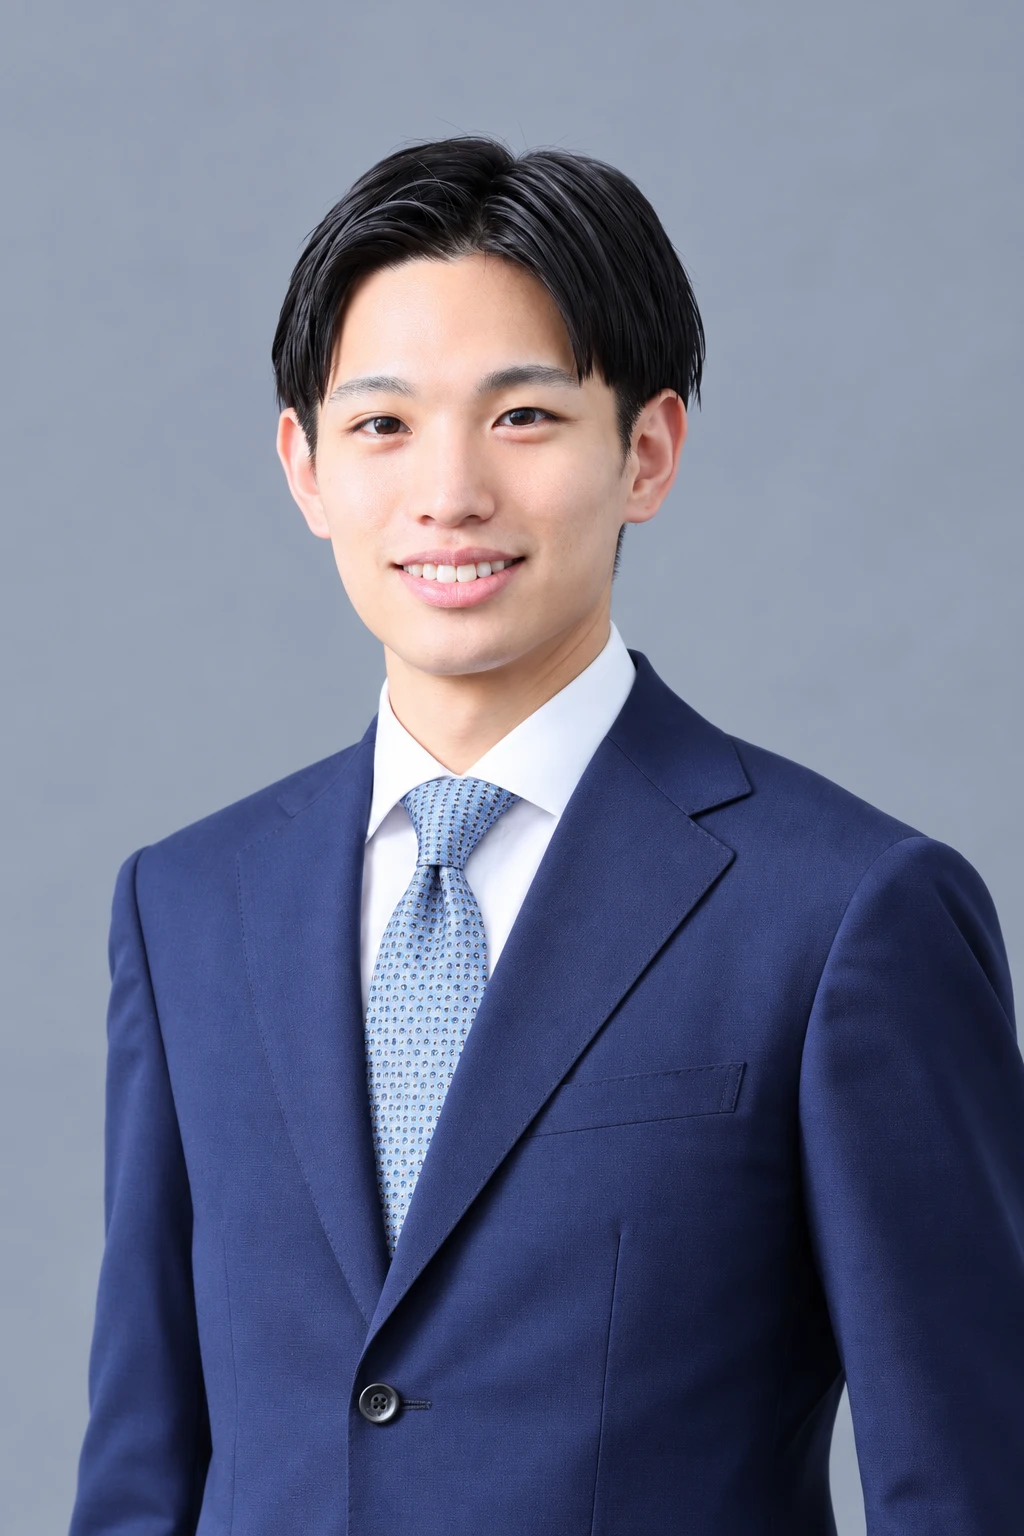
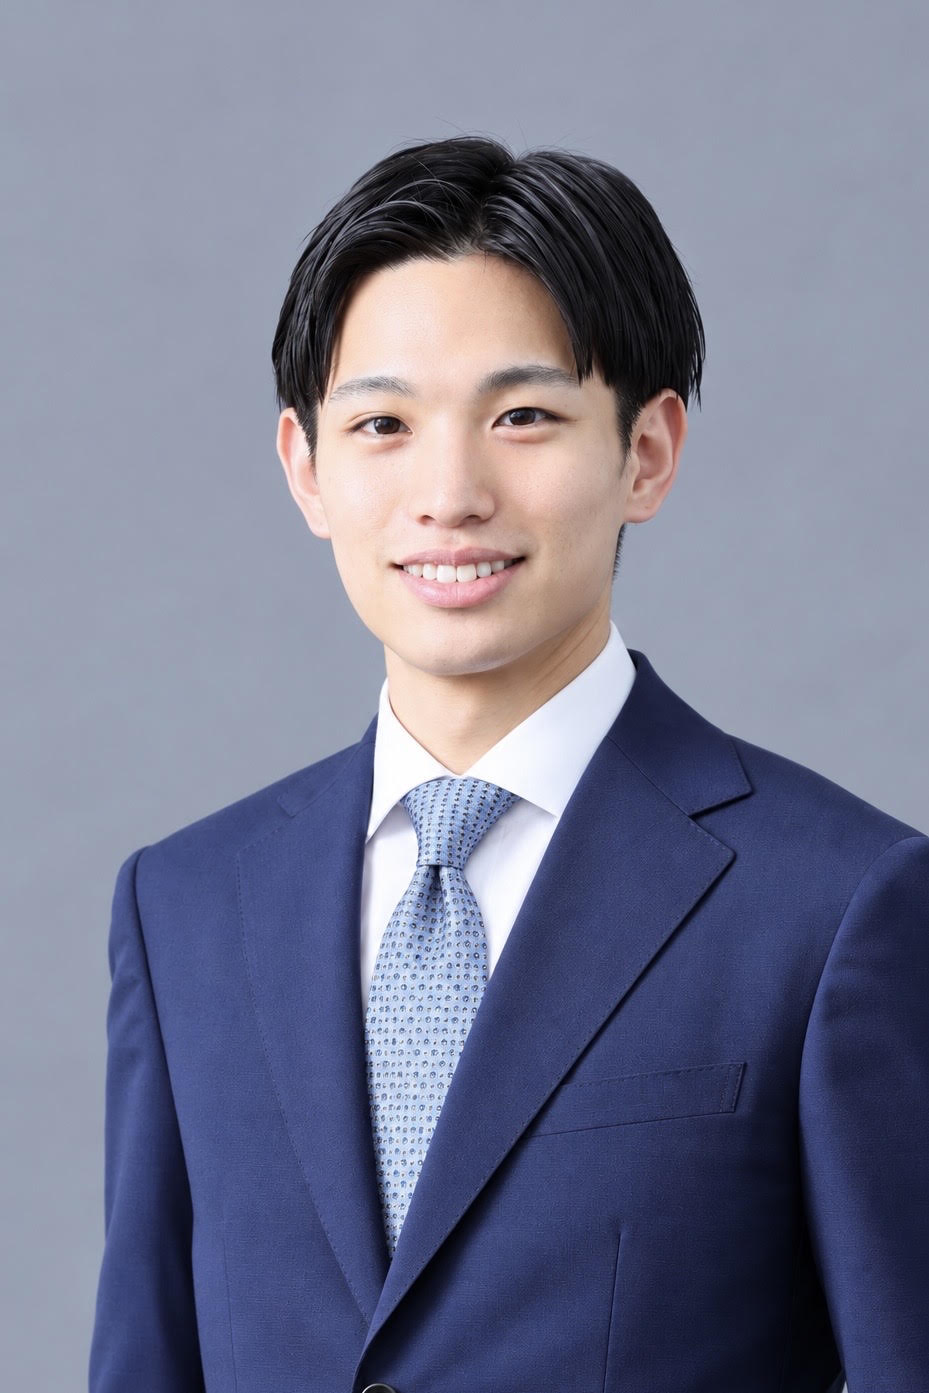
お知らせセクション修正：問題の画像・活動アーカイブ削除、ニュースカード2列グリッドに変更／西山プロフィール写真を新しい写真に更新

diff --git a/index.html b/index.html
@@ -944,21 +944,8 @@ details[open] .t-more{opacity:.74}
 
 .news{background:#f4f1ea}
 .news .slead{max-width:46em;line-height:1.95}
-.news-grid{display:grid;grid-template-columns:1.2fr .8fr;gap:28px;align-items:start;margin-top:38px}
-.news-rail{
-  display:block;text-decoration:none;color:inherit;border-radius:22px;overflow:hidden;
-  box-shadow:0 12px 40px rgba(47,58,47,.12);border:1px solid rgba(224,213,200,.85);background:#243528;cursor:pointer;
-  transition:transform .28s ease,box-shadow .28s ease,border-color .28s ease;
-}
-.news-rail:hover{transform:translateY(-4px);box-shadow:0 22px 52px rgba(47,58,47,.16);border-color:rgba(218,207,188,.98)}
-.news-rail .frame{position:relative;width:100%;aspect-ratio:16/10;min-height:180px;overflow:hidden;background:#35483a}
-.news-rail .frame img{
-  position:absolute;left:0;top:0;width:100%;height:100%;object-fit:cover;object-position:50% 30%;display:block;
-  transition:transform .45s ease;
-}
-.news-rail:hover .frame img{transform:scale(1.025)}
-.news-rail .cap{padding:14px 16px;background:rgba(253,251,247,.94);font-size:13px;font-weight:800;color:var(--gd);letter-spacing:.02em;line-height:1.55}
-.news-list{display:grid;gap:12px}
+.news-grid{margin-top:38px}
+.news-list{display:grid;grid-template-columns:1fr 1fr;gap:14px}
 .news-item{
   background:var(--sand);border:1px solid rgba(224,213,200,.82);border-radius:16px;padding:15px 17px;
   transition:transform .26s ease,box-shadow .26s ease,border-color .26s ease;
@@ -974,8 +961,7 @@ details[open] .t-more{opacity:.74}
 .news-more{margin-top:12px}
 .news-more a{font-size:13px;font-weight:800;color:var(--g);border-bottom:1px solid rgba(70,98,70,.35);padding-bottom:2px}
 @media (prefers-reduced-motion:reduce){
-  .news-rail:hover,.news-item:hover{transform:none}
-  .news-rail:hover .frame img{transform:none}
+  .news-item:hover{transform:none}
 }
 
 .faq{background:#f7f3ec}
@@ -1173,6 +1159,7 @@ footer{background:#111;color:rgba(255,255,255,.5);padding:56px 5% 32px}
     align-self:stretch;
   }
   .sv-grid,.kunxun-grid,.t-grid,.news-grid{grid-template-columns:1fr}
+  .news-list{grid-template-columns:1fr}
   .stats-inner{grid-template-columns:repeat(2,1fr)}
   .message{padding:110px 5%}
   .msg-lede{max-width:none}
@@ -1497,7 +1484,7 @@ footer{background:#111;color:rgba(255,255,255,.5);padding:56px 5% 32px}
         <div class="msg-person">
           <a class="msg-photo-link" href="./okubo.html" aria-label="大久保 俊輝のメッセージへ">
           <div class="msg-photo-wrap placeholder">
-            <img src="./lp-assets/okubo-portrait.jpg?v=20260730" alt="大久保 俊輝" loading="lazy" decoding="async" onerror="this.style.display='none'; this.closest('.msg-photo-wrap').classList.add('placeholder');">
+            <img src="./lp-assets/okubo-portrait.jpg?v=20260508a" alt="大久保 俊輝" loading="lazy" decoding="async" onerror="this.style.display='none'; this.closest('.msg-photo-wrap').classList.add('placeholder');">
           </div>
           </a>
           <div class="msg-name">大久保 俊輝（おおくぼ としき）</div>
@@ -1514,7 +1501,7 @@ footer{background:#111;color:rgba(255,255,255,.5);padding:56px 5% 32px}
         <div class="msg-person">
           <a class="msg-photo-link" href="./nishiyama.html" aria-label="西山 弾のメッセージへ">
           <div class="msg-photo-wrap">
-            <img src="./lp-assets/founder-portrait.png?v=20260730" alt="西山 弾" loading="lazy" decoding="async">
+            <img src="./lp-assets/founder-portrait.png" alt="西山 弾" loading="lazy" decoding="async">
           </div>
           </a>
           <div class="msg-name">西山 弾（にしやま だん）</div>
@@ -1678,23 +1665,16 @@ footer{background:#111;color:rgba(255,255,255,.5);padding:56px 5% 32px}
     <h2 class="stitle">お知らせ</h2>
     <p class="slead">速報ではなく、現場の空気や言葉の背景を少しずつ残すための記録です。メディア掲載、インドでの交流、動画、note まで一覧からたどれます。</p>
     <div class="news-grid">
-      <a class="news-rail" href="./news.html" aria-label="お知らせ一覧を見る">
-        <div class="frame">
-          <img src="./lp-assets/shimokita-building.jpg" width="2000" height="1250" alt="活動・発信の記録" loading="eager" decoding="async">
-        </div>
-        <div class="cap">活動アーカイブを開く →</div>
-      </a>
-      <div>
-        <div class="news-list">
+      <div class="news-list">
           <a class="news-item" href="./news-delhi-univ.html">
             <div class="news-tags"><span class="k">INDIA</span><span class="k">講義</span></div>
-            <div class="t">大久保先生がデリー大学にて2つの特別講義を行いました</div>
+            <div class="t">大久保先生がデリー大学にて2講座の特別講義を行いました</div>
             <div class="m">教授・大学院生90名、学生140名を対象に、共生社会と多文化理解をテーマに登壇。2026.07</div>
           </a>
           <a class="news-item" href="./news-shimokita.html">
             <div class="news-tags"><span class="k">イベント</span><span class="k">登壇</span></div>
-            <div class="t">下北カレッジ「題名のない座談会」に西山が登壇しました</div>
-            <div class="m">教育と営業に共通する、人を動かす本質について対話。2026.07.28</div>
+            <div class="t">下北カレッジ「題名のない座談会」に西山が登壇します</div>
+            <div class="m">7月28日（月）20:00〜 ／ 下北カレッジ ／ テーマ：「教育と営業に共通する、人を動かす本質。」参加希望はinfo@antagaorana.comまで。2026.07.28</div>
           </a>
           <a class="news-item" href="./news-note.html">
             <div class="news-tags"><span class="k">NOTE</span></div>
@@ -1718,7 +1698,6 @@ footer{background:#111;color:rgba(255,255,255,.5);padding:56px 5% 32px}
           </a>
         </div>
         <div class="news-more"><a href="./news.html">ほかの記事（デリー新聞2回目ほか）→</a></div>
-      </div>
     </div>
   </div>
 </section>
